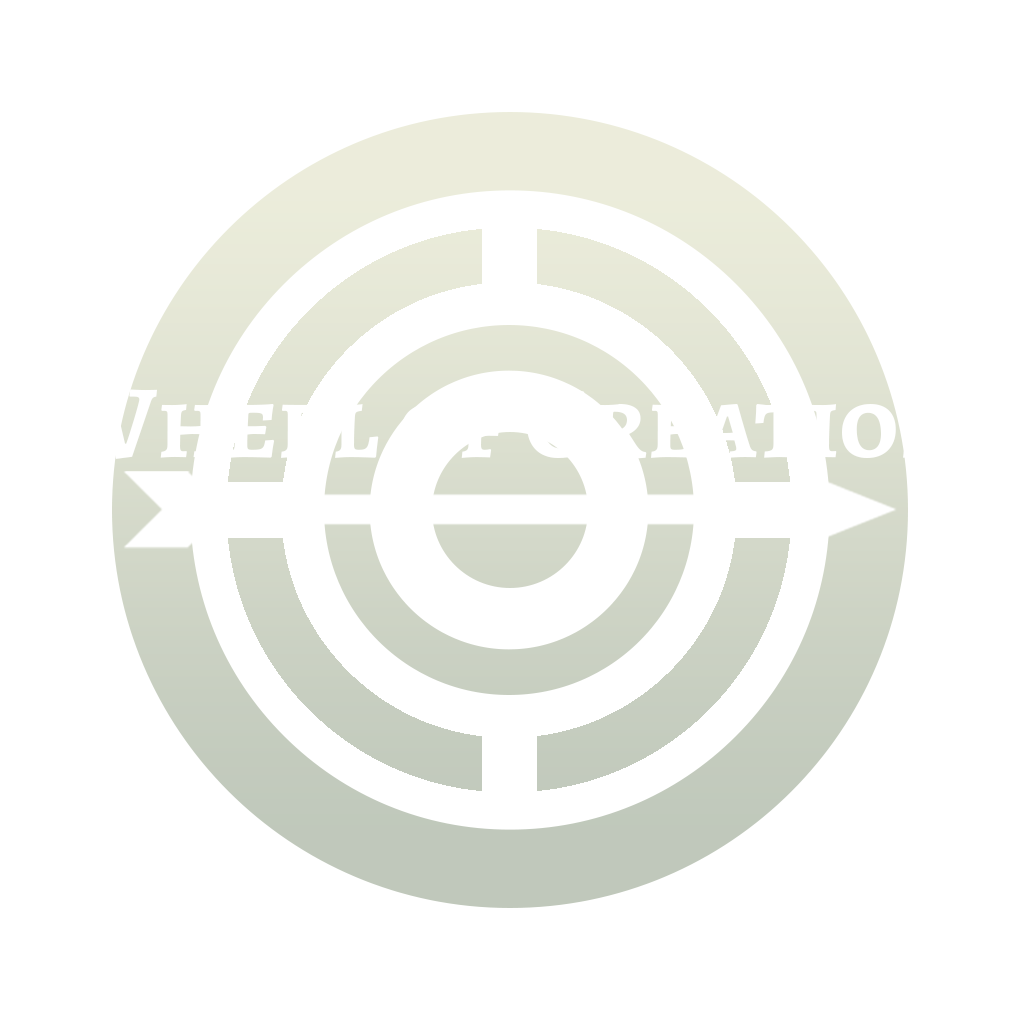
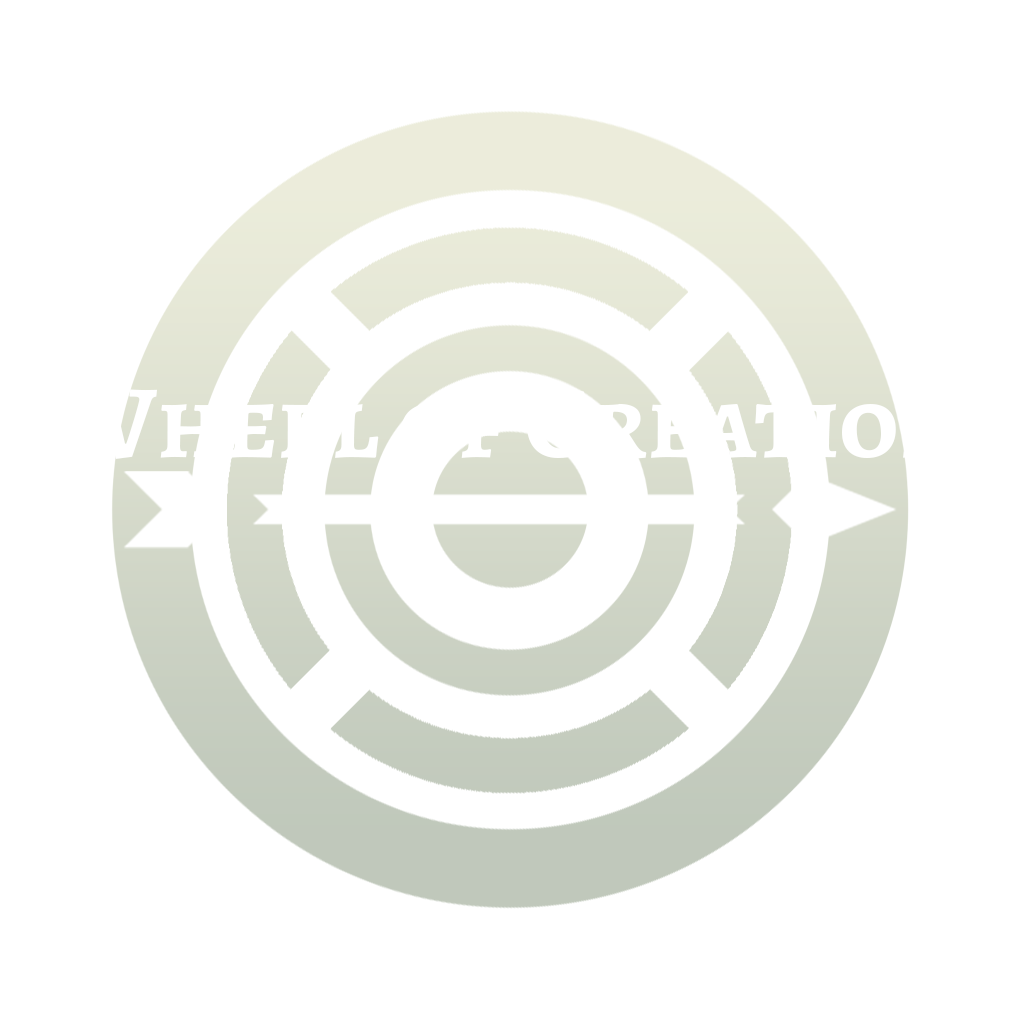
Attempts at mobile fixes, styling

diff --git a/static/css/index.css b/static/css/index.css
@@ -1,9 +1,8 @@
 .header{
-    background: rgba(89, 131, 102, 1) ;
+    background-color: rgba(89, 131, 102, 1) ;
     background-image:
             linear-gradient(rgba(0,0,0,.05), rgba(0,0,0,.5), rgba(0,0,0,.95)),
             url("https://upload.wikimedia.org/wikipedia/commons/6/6d/Tibet_Himalayas.jpg");
-    background-position: center 0;
     background-size: cover;
     background-repeat: no-repeat;
     background-position: 50% 5%;
@@ -14,8 +13,28 @@
     height: 100vh;
 }
 
+.header {
+    position: relative;
+}
+
+.container {
+    position: relative;
+}
+
+.row {
+    position: relative;
+}
+
 .container {
     margin-top: 0;
+}
+
+#mainContent {
+    background-color: rgb(75, 110, 86);
+    background-image: -webkit-linear-gradient(to bottom, #8f8e91, #29462f);
+    background-image: -moz-linear-gradient(to bottom, #8f8e91, #29462f);
+    background-image: linear-gradient(to bottom, #8f8e91, #29462f);
+    background-repeat: no-repeat;
 }
 
 #whatIsWoC {
@@ -73,8 +92,8 @@
 }
 
 #whatIsWoC>ul>.tab {
-    padding-left: .6rem;
-    padding-right: .6rem;
+    padding-left: .1rem;
+    padding-right: .1rem;
 }
 
 #whatIsWoC>ul>.nav-item>a{
@@ -89,10 +108,22 @@ a {
     color: #ffe4a8;
 }
 
+html {
+    min-height: 100%;
+    height: 100%;
+}
+
 body {
     font-family: "Open Sans", sans-serif;
+    background-color: rgb(75, 110, 86);
+    background-image: -webkit-linear-gradient(to bottom, #8f8e91, #29462f);
+    background-image: -moz-linear-gradient(to bottom, #8f8e91, #29462f);
     background-image: linear-gradient(to bottom, #8f8e91, #29462f);
+    background-repeat: no-repeat;
     color: black;
+    overflow-x: hidden;
+    position: relative;
+    min-height: 100%;
 }
 
 .btn-link:hover {
@@ -207,6 +238,90 @@ input[type=number]{
     background-color: #1f2228;
 
 }
+
+#spinnerLogo {
+    position: center;
+    /*margin: 5rem;*/
+    /*padding: 5rem;*/
+}
+
+.lead {
+    text-shadow: 0 1px 0 black;
+    border: none;
+    margin-left: 1rem;
+    margin-right: 1rem;
+    font-size: 4.5vw;
+    max-font-size: 8px;
+    position: absolute;
+    top: 53%;
+}
+
+@media screen and (min-width: 601px) {
+  .lead {
+    font-size: 1.5rem;
+  }
+}
+
+.logo-title {
+    position: absolute;
+    top: 0;
+    left: 0;
+    right: 0;
+    bottom: 0;
+    width: 75%;
+    max-width: 600px;
+    height: auto;
+    margin: auto;
+    z-index: 1000;
+}
+
+.logo {
+    position: absolute;
+    top: 0;
+    left: 0;
+    right: 0;
+    bottom: 0;
+    width: 75%;
+    max-width: 600px;
+    height: auto;
+    min-height: 0;
+    min-width: 0;
+    margin: auto;
+    opacity: .5;
+}
+
+.image-spin {
+    -webkit-animation:spin-anti 10s linear infinite;
+    -moz-animation:spin-anti 10s linear infinite;
+    animation:spin-anti 10s linear infinite;
+}
+.image-spin2 {
+    -webkit-animation:spin 16s linear infinite;
+    -moz-animation:spin 16s linear infinite;
+    animation:spin 16s linear infinite;
+}
+.image-spin3 {
+    -webkit-animation:spin-anti 22s linear infinite;
+    -moz-animation:spin-anti 22s linear infinite;
+    animation:spin-anti 22s linear infinite;
+}
+
+@-moz-keyframes spin { 100% { -moz-transform: rotate(360deg); } }
+@-webkit-keyframes spin { 100% { -webkit-transform: rotate(360deg); } }
+@keyframes spin { 100% { -webkit-transform: rotate(360deg); transform: rotate(360deg); } }
+@-moz-keyframes spin-anti {
+  from { -moz-transform: rotate(360deg); }
+  to { -moz-transform: rotate(0deg); }
+}
+@-webkit-keyframes spin-anti {
+  from { -webkit-transform: rotate(360deg); }
+  to { -webkit-transform: rotate(0deg); }
+}
+@keyframes spin-anti {
+  from { -webkit-transform: rotate(360deg); transform: rotate(360deg); }
+  to { -webkit-transform: rotate(0deg); transform: rotate(0deg); }
+}
+
 
 /*input[type=range]{*/
     /*-webkit-appearance: none;*/

diff --git a/templates/index.html b/templates/index.html
@@ -2,7 +2,9 @@
 <html>
 
 <head>
-  <meta name="viewport" content="width=device-width; initial-scale=1.0;">
+  <meta name="viewport" content="width=device-width, initial-scale=1.0;">
+  <meta name="HandheldFriendly" content="true" />
+  <meta name="MobileOptimized" content="320" />
   <meta charset="UTF-8">
   <link rel="stylesheet" href="https://maxcdn.bootstrapcdn.com/bootstrap/4.0.0/css/bootstrap.min.css"
         integrity="sha384-Gn5384xqQ1aoWXA+058RXPxPg6fy4IWvTNh0E263XmFcJlSAwiGgFAW/dAiS6JXm" crossorigin="anonymous">
@@ -25,14 +27,21 @@
   <div class="row align-middle h-100 align-self-center align-items-center" style="">
     <div
         class="col align-self-center align-middle h-100 d-flex justify-content-center flex-column h-100 align-self-center align-items-center">
-      <img src="../static/img/woc2.png"
-           style="margin: 0 auto; text-align: center; width: 100%; max-width: 700px; vertical-align: middle; padding-top: 10px; padding-bottom: 10px"
-           class="align-middle">
-      <p style="position: absolute; top: 55%; font-size: 1.2rem" class="lead">A caravanning and monster-hunting
+      <!--<img src="../static/img/woc2.png"-->
+           <!--style="margin: 0 auto; text-align: center; width: 100%; max-width: 700px; vertical-align: middle; padding-top: 10px; padding-bottom: 10px"-->
+           <!--class="align-middle">-->
+      <div id="spinnerLogo">
+        <img class="image-spin logo" src="../static/img/woc_map_layer1.png">
+        <img class="image-spin2 logo" src="../static/img/woc_map_layer2.png">
+        <img class="image-spin3 logo" src="../static/img/woc_map_layer3.png">
+        <img class="logo-title" src="../static/img/woc3.png">
+      </div>
+      <p style=" " class="lead">A caravanning and monster-hunting
         supplement for <i class="fas fa-dragon" style="color: red"></i> 5th Edition.</p>
     </div>
   </div>
 </div>
+<div id="mainContent">
 <div id="whatIsWoCContainer">
   <div class="container">
     <div class="row">
@@ -90,7 +99,7 @@
           <div class="tab-pane fade" id="rules" role="tabpanel" aria-labelledby="rules-tab">
             <p>The flow of gameplay in the Wheel of Creation assumes a specific structure of Expeditions, each of which
               are expected
-              to take aobut 4-6 game sessions: </p>
+              to take about 4-6 game sessions: </p>
 
             <ul>
               <li>Players choose a destination and decide the initial composition of the caravan under their shared
@@ -233,7 +242,7 @@
           <h5 class="card-header text-white">Tool: Monster Builder</h5>
           <div class="card-body">
             <!--<h5 class="card-title">Generate creatures using WoC's tag system</h5>-->
-            <p class="card-text">An online application for creating new monsters for 5e. In active development and updated
+            <p class="card-text">An online application for creating new monster statblocks for 5e. In active development and updated
               regularly!</p>
             <div class="card-links">
               <a href="/monster" class="btn btn-warning" target="_blank">Check it out!</a>
@@ -259,6 +268,7 @@
     </div>
 
   </div>
+</div>
 </div>
 {{ footer }}
 

diff --git a/templates/monster.html b/templates/monster.html
@@ -2,7 +2,9 @@
 <html>
 
 <head>
-  <meta name="viewport" content="width=device-width; initial-scale=1.0;">
+  <meta name="viewport" content="width=device-width, initial-scale=1.0;">
+  <meta name="HandheldFriendly" content="true" />
+  <meta name="MobileOptimized" content="320" />
   <meta charset="UTF-8">
   <link rel="stylesheet" href="https://maxcdn.bootstrapcdn.com/bootstrap/4.0.0/css/bootstrap.min.css"
         integrity="sha384-Gn5384xqQ1aoWXA+058RXPxPg6fy4IWvTNh0E263XmFcJlSAwiGgFAW/dAiS6JXm" crossorigin="anonymous">
@@ -76,7 +78,7 @@
                     href="https://homebrewery.naturalcrit.com/" target="_blank">the Homebrewery</a>.
               </li>
             </ol>
-            <img style="display: block; margin: auto; max-width: 95%" src="../static/img/demo.gif">
+            <img style="display: block; margin: auto; width: 500px; max-width: 95%" src="../static/img/demo.gif">
           </div>
         </div>
       </div>

diff --git a/static/html/legal.html b/static/html/legal.html
@@ -53,6 +53,15 @@
             href="https://creativecommons.org/licenses/by/3.0/us/">Creative Commons 3.0 International License</a>.
         </li>
         <li class="list-group-item">The image has been cropped, rotated, resized, and recolored.</li>
+        <li class="list-group-item active"><a class="text-white font-weight-bold"
+                                              href="https://commons.wikimedia.org/wiki/File:Tibet_Himalayas.jpg">Himalayas</a></li>
+        <li class="list-group-item">"Himalayas" is in the public domain.</li>
+        <li class="list-group-item active"><a class="text-white font-weight-bold"
+                                              href="https://commons.wikimedia.org/wiki/File:Die_drei_Bogatyr.jpg">Bogatyrs</a></li>
+        <li class="list-group-item">"Bogatyrs" is in the public domain.</li>
+
+
+
       </ul>
     </div>
   </div>

diff --git a/static/css/monster.css b/static/css/monster.css
@@ -14,7 +14,11 @@
 
 body {
     font-family: "Open Sans", sans-serif;
-    background-image: linear-gradient(to bottom, #93a191, #253f2a);
+    background-color: rgb(75, 110, 86);
+    background-image: -webkit-linear-gradient(to bottom, #8f8e91, #29462f);
+    background-image: -moz-linear-gradient(to bottom, #8f8e91, #29462f);
+    background-image: linear-gradient(to bottom, #8f8e91, #29462f);
+    /*background-repeat: no-repeat;*/
     /*background-color: #285b3a;*/
     color: whitesmoke;
 }
@@ -106,8 +110,8 @@ textarea {
 }
 
 .md-preview blockquote table thead tr th {
-    padding-left: 1rem;
-    padding-right: 1rem;
+    padding-left: .6rem;
+    padding-right: .6rem;
 }
 
 #tagTableDiv {

diff --git a/what_is_woc.md b/what_is_woc.md
@@ -12,7 +12,7 @@ The current plan is that there will be three products associated with the first 
 
 ### Rules and Gameplay
 
-The flow of gameplay in the Wheel of Creation assumes a specific structure of Expeditions, each of which are expected to take aobut 4-6 game sessions: 
+The flow of gameplay in the Wheel of Creation assumes a specific structure of Expeditions, each of which are expected to take about 4-6 game sessions: 
 
 * Players choose a destination and decide the initial composition of the caravan under their shared protection.
 * The GM decides what places and obstacles they will encounter along the way.
